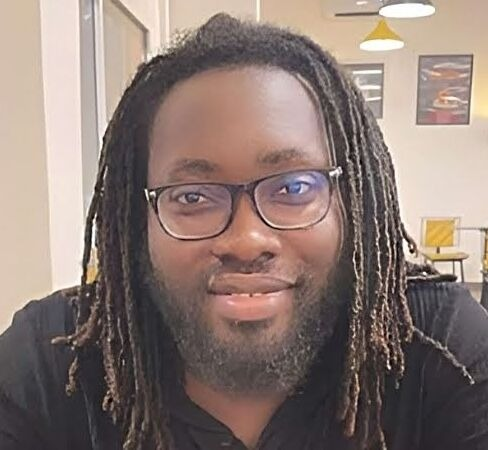
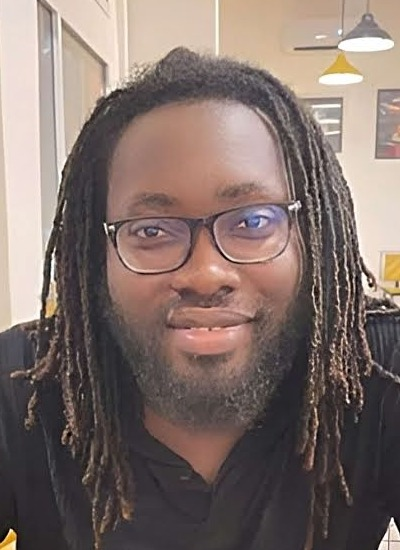
team images updated

diff --git a/content/about.md b/content/about.md
@@ -42,7 +42,7 @@ content_blocks:
         instagram: ""
         linkedin: "kossi-toulassi-61845462"
       - name: "Zinhle Dlamini"
-        image: "/images/team/team-1.jpeg"
+        image: "/images/team/team-2.jpg"
         role: "Chief Operation Office"
         summary: "A season business woman with over 10 years worth of experience in international trade and since
                   joining the company in 2014 transformed the organization. She is a graduate from University of
